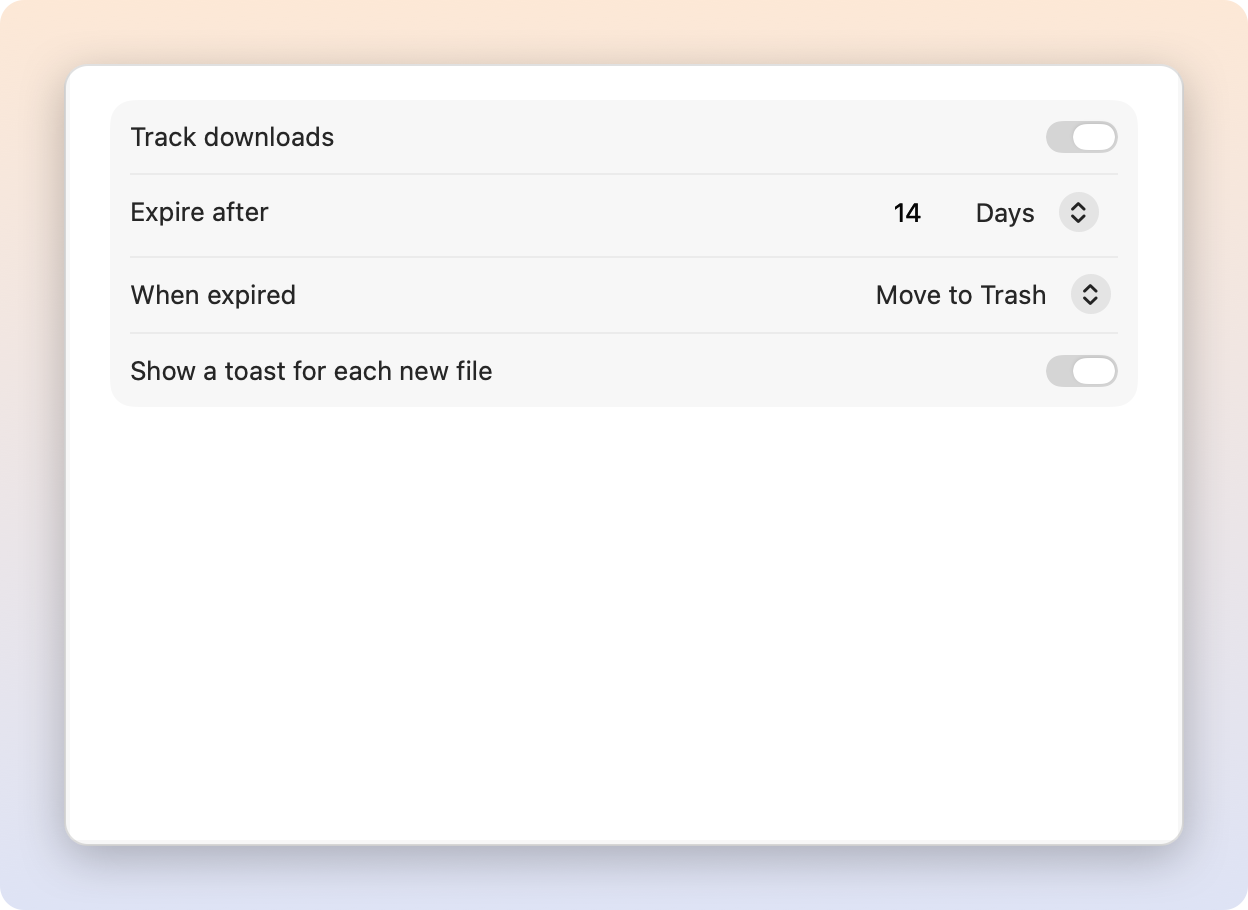
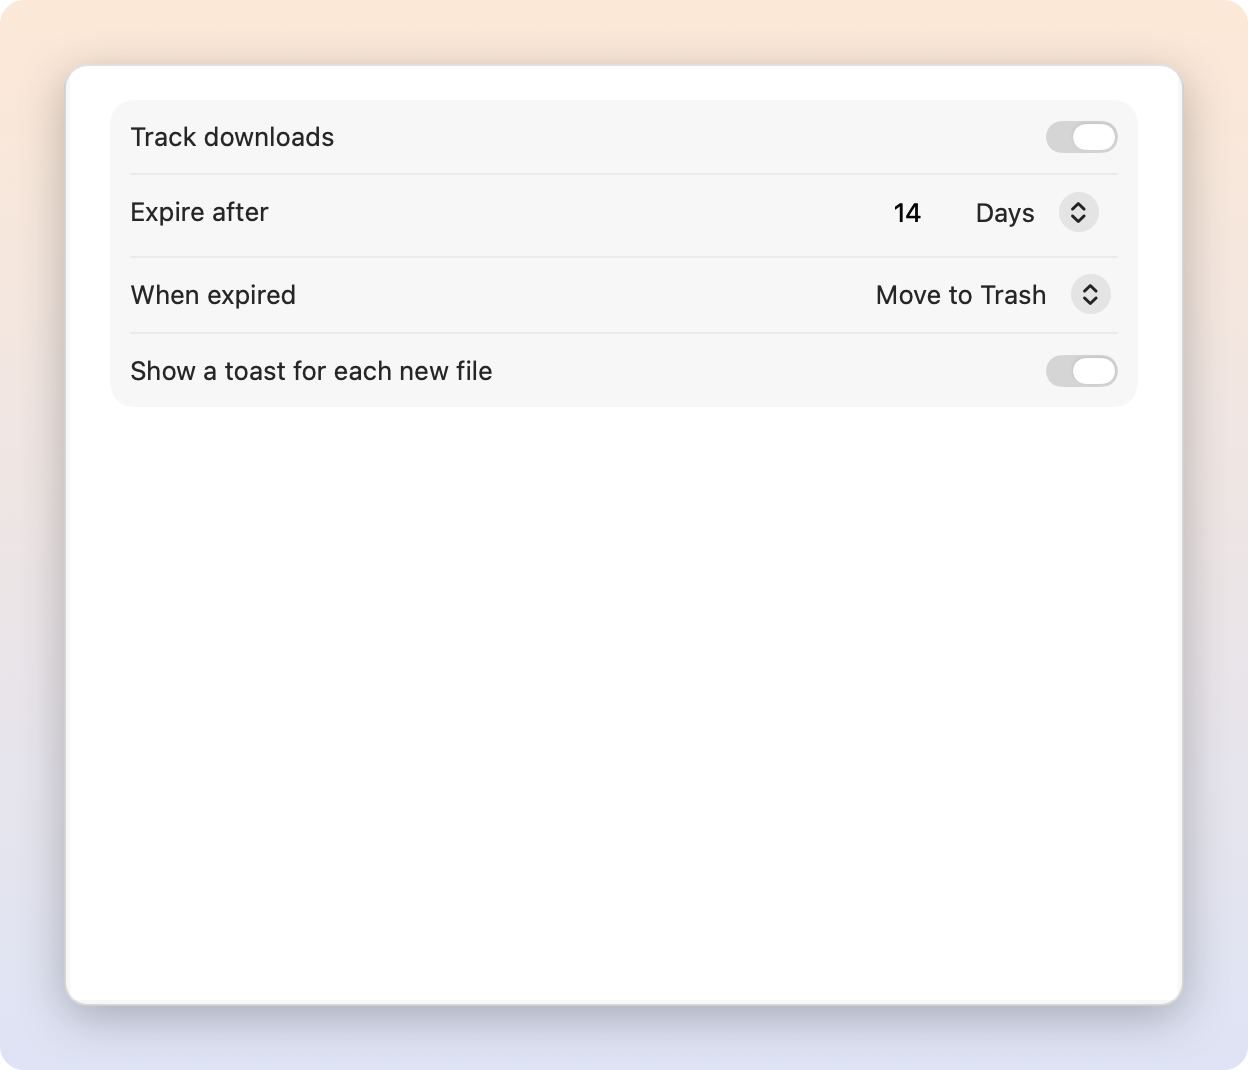
fix(settings): test toast chip no longer overlaps the General tab

diff --git a/Sources/Burndown/Settings/SettingsView.swift b/Sources/Burndown/Settings/SettingsView.swift
@@ -16,7 +16,7 @@ struct SettingsView: View {
             RulesTab(model: model).tabItem { Label("Rules", systemImage: "list.bullet.rectangle") }
             ActivityTab(model: model).tabItem { Label("Activity", systemImage: "clock.arrow.circlepath") }
         }
-        .frame(width: 560, height: 420)
+        .frame(width: 560, height: 500)
     }
 }
 
@@ -24,6 +24,18 @@ private struct GeneralTab: View {
     @Bindable var model: AppModel
 
     var body: some View {
+        VStack(spacing: 0) {
+            form
+            HStack {
+                Spacer()
+                testToastChip
+            }
+            .padding(.horizontal, 16)
+            .padding(.vertical, 10)
+        }
+    }
+
+    private var form: some View {
         Form {
             Toggle("Launch at login", isOn: $model.launchAtLogin)
             Toggle("Pause tracking", isOn: $model.settings.paused)
@@ -55,19 +67,19 @@ private struct GeneralTab: View {
             }
         }
         .formStyle(.grouped)
-        .overlay(alignment: .bottomTrailing) {
-            Button { model.sendTestToast() } label: {
-                Image(systemName: "bell.badge")
-                    .font(.system(size: 14, weight: .medium))
-                    .frame(width: 32, height: 32)
-                    .background(.regularMaterial, in: Circle())
-                    .overlay(Circle().strokeBorder(.separator))
-                    .contentShape(Circle())
-            }
-            .buttonStyle(.plain)
-            .help("Show a test toast")
-            .padding(14)
+    }
+
+    private var testToastChip: some View {
+        Button { model.sendTestToast() } label: {
+            Image(systemName: "bell.badge")
+                .font(.system(size: 14, weight: .medium))
+                .frame(width: 32, height: 32)
+                .background(.regularMaterial, in: Circle())
+                .overlay(Circle().strokeBorder(.separator))
+                .contentShape(Circle())
         }
+        .buttonStyle(.plain)
+        .help("Show a test toast")
     }
 }
 
